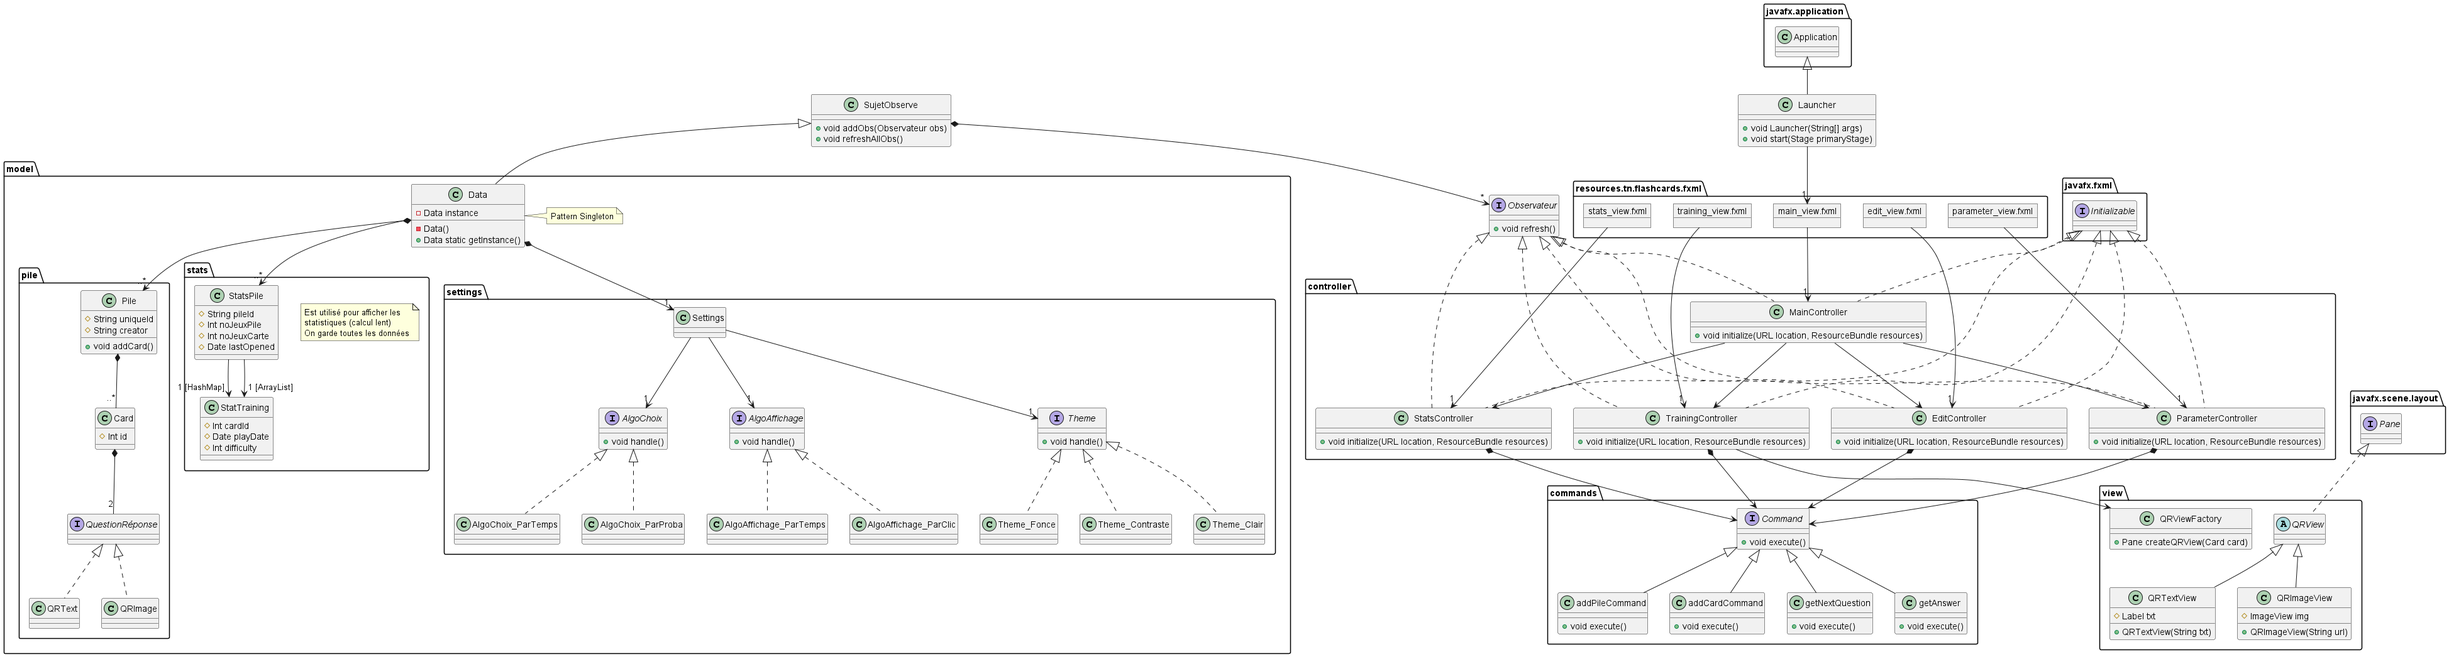
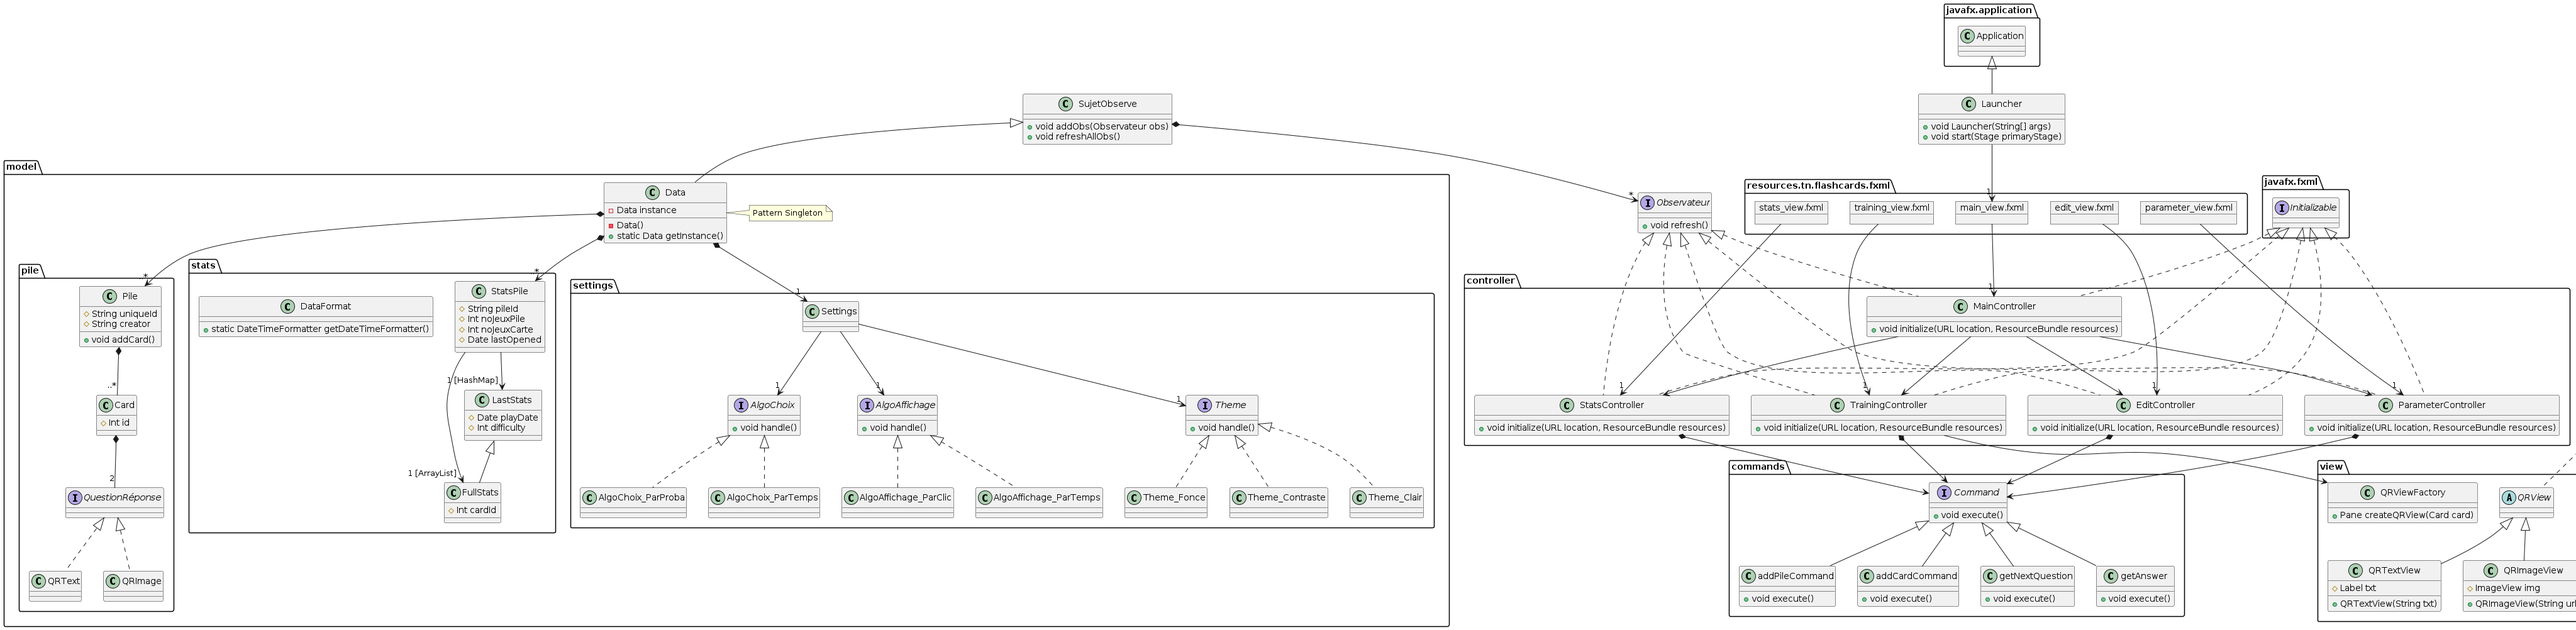
[EDIT][MODEL] Change les stats pour la nouvelle conception.

diff --git a/flashcards/src/main/java/tn/flashcards/model/stats/StatsPile.java b/flashcards/src/main/java/tn/flashcards/model/stats/StatsPile.java
@@ -1,0 +1,69 @@
+package tn.flashcards.model.stats;
+
+import java.time.LocalDateTime;
+import java.util.ArrayList;
+import java.util.HashMap;
+
+public class StatsPile {
+    protected String pileId;
+    protected int noJeuxPile;
+    protected int noJeuxCarte;
+    protected LocalDateTime lastOpened;
+    HashMap<Integer, LastStats> lastStats;
+    ArrayList<FullStats> fullStats;
+
+    // Const
+    public StatsPile(String pileId) {
+        this.pileId = pileId;
+        this.noJeuxPile = 0;
+        this.noJeuxCarte = 0;
+        this.lastStats = new HashMap<Integer, LastStats>();
+        this.fullStats = new ArrayList<FullStats>();
+    }
+
+    // NoJeuxPile
+    public int getNoJeuxPile() {
+        return this.noJeuxPile;
+    }
+    public void incrNoJeuxPile() {
+        this.noJeuxPile ++;
+    }
+
+    // NoJeuxCarte
+    public int getNoJeuxCarte() {
+        return this.noJeuxCarte;
+    }
+    public void incrNoJeuxCarte() {
+        this.noJeuxCarte ++;
+    }
+
+    // LastOpened
+    public LocalDateTime getLastOpened() {
+        return this.lastOpened;
+    }
+    public String getLastOpenedFormated() {
+        return this.lastOpened.format(DateFormat.getDateTimeFormatter());
+    }
+    public void updateLastOpened() {
+        this.lastOpened = LocalDateTime.now();
+    }
+    public void updateLastOpened(LocalDateTime lastOpened) {
+        this.lastOpened = lastOpened;
+    }
+
+    // LastStat & FullStats
+    public void addPlayed(Integer cardId, FullStats played) {
+        this.lastStats.put(cardId, played.copyAsLastStats());
+        this.fullStats.add(played);
+    }
+
+    // LastStats
+    public LastStats getPlayed(Integer cardId) {
+        return this.lastStats.get(cardId);
+    }
+
+    // FullStats
+    public ArrayList<FullStats> getFullStats() {
+        return this.fullStats;
+    }
+}

diff --git a/flashcards/src/main/java/tn/flashcards/model/Data.java b/flashcards/src/main/java/tn/flashcards/model/Data.java
@@ -1,27 +1,28 @@
 package tn.flashcards.model;
 
 import java.util.ArrayList;
+import java.util.HashMap;
 
 import tn.flashcards.model.pile.Pile;
-import tn.flashcards.model.user.User;
+import tn.flashcards.model.stats.StatsPile;
 
 public class Data {
     // Singleton
     private static Data INSTANCE;
-    protected User user;
+    protected HashMap<String, StatsPile> statsPile;
     protected ArrayList<Pile> pile;
 
     private Data() {
-        this.user = new User();
+        this.statsPile = new HashMap<String, StatsPile>();
         this.pile = new ArrayList<Pile>();
         // TODO : vérifier si peut être importer depuis un fichier
     }
 
+    // Singleton
     public static Data getInstance() {
         if (INSTANCE == null) {
             INSTANCE = new Data();
         }
         return INSTANCE;
     }
-
 }

diff --git a/flashcards/src/main/java/tn/flashcards/model/stats/LastStats.java b/flashcards/src/main/java/tn/flashcards/model/stats/LastStats.java
@@ -1,0 +1,30 @@
+package tn.flashcards.model.stats;
+
+import java.time.LocalDateTime;
+
+public class LastStats {
+    LocalDateTime playDate;
+    int difficulty;
+
+    public LastStats(int difficulty) {
+        this.playDate = LocalDateTime.now();
+        this.difficulty = difficulty;
+    }
+
+    public LastStats(LocalDateTime playDate, int difficulty) {
+        this.playDate = playDate;
+        this.difficulty = difficulty;
+    }
+
+    public int getDifficulty() {
+        return this.difficulty;
+    }
+
+    public LocalDateTime getPlayDate() {
+        return this.playDate;
+    }
+
+    public String getPlayDateFormated() {
+        return this.playDate.format(DateFormat.getDateTimeFormatter());
+    }
+}

diff --git a/flashcards/src/main/java/tn/flashcards/model/stats/FullStats.java b/flashcards/src/main/java/tn/flashcards/model/stats/FullStats.java
@@ -1,0 +1,25 @@
+package tn.flashcards.model.stats;
+
+import java.time.LocalDateTime;
+
+public class FullStats extends LastStats {
+    protected int cardId;
+
+    public FullStats(int difficulty, int cardId) {
+        super(difficulty);
+        this.cardId = cardId;
+    }
+
+    public FullStats(int difficulty, LocalDateTime playDate, int cardId) {
+        super(playDate, difficulty);
+        this.cardId = cardId;
+    }
+
+    public LastStats copyAsLastStats() {
+        return new LastStats(playDate, difficulty);
+    }
+    
+    public int getCardId() {
+        return this.cardId;
+    }
+}

diff --git a/flashcards/src/main/java/tn/flashcards/model/stats/DateFormat.java b/flashcards/src/main/java/tn/flashcards/model/stats/DateFormat.java
@@ -1,0 +1,9 @@
+package tn.flashcards.model.stats;
+
+import java.time.format.DateTimeFormatter;
+
+public class DateFormat {
+    public static DateTimeFormatter getDateTimeFormatter() {
+        return DateTimeFormatter.ofPattern("dd/MM/yyyy HH:mm");
+    }
+}

diff --git a/flashcards/src/main/java/tn/flashcards/model/settings/AlgoDAffichage.java b/flashcards/src/main/java/tn/flashcards/model/settings/AlgoDAffichage.java
@@ -1,0 +1,5 @@
+package tn.flashcards.model.settings;
+
+public interface AlgoDAffichage {
+    
+}

diff --git a/flashcards/src/main/java/tn/flashcards/model/settings/AlgoDeRep.java b/flashcards/src/main/java/tn/flashcards/model/settings/AlgoDeRep.java
@@ -1,0 +1,5 @@
+package tn.flashcards.model.settings;
+
+public interface AlgoDeRep {
+    
+}

diff --git a/flashcards/src/main/java/tn/flashcards/model/settings/Theme.java b/flashcards/src/main/java/tn/flashcards/model/settings/Theme.java
@@ -1,0 +1,5 @@
+package tn.flashcards.model.settings;
+
+public interface Theme {
+    
+}

diff --git a/flashcards/src/main/java/tn/flashcards/model/settings/Settings.java b/flashcards/src/main/java/tn/flashcards/model/settings/Settings.java
@@ -1,0 +1,5 @@
+package tn.flashcards.model.settings;
+
+public class Settings {
+    
+}
